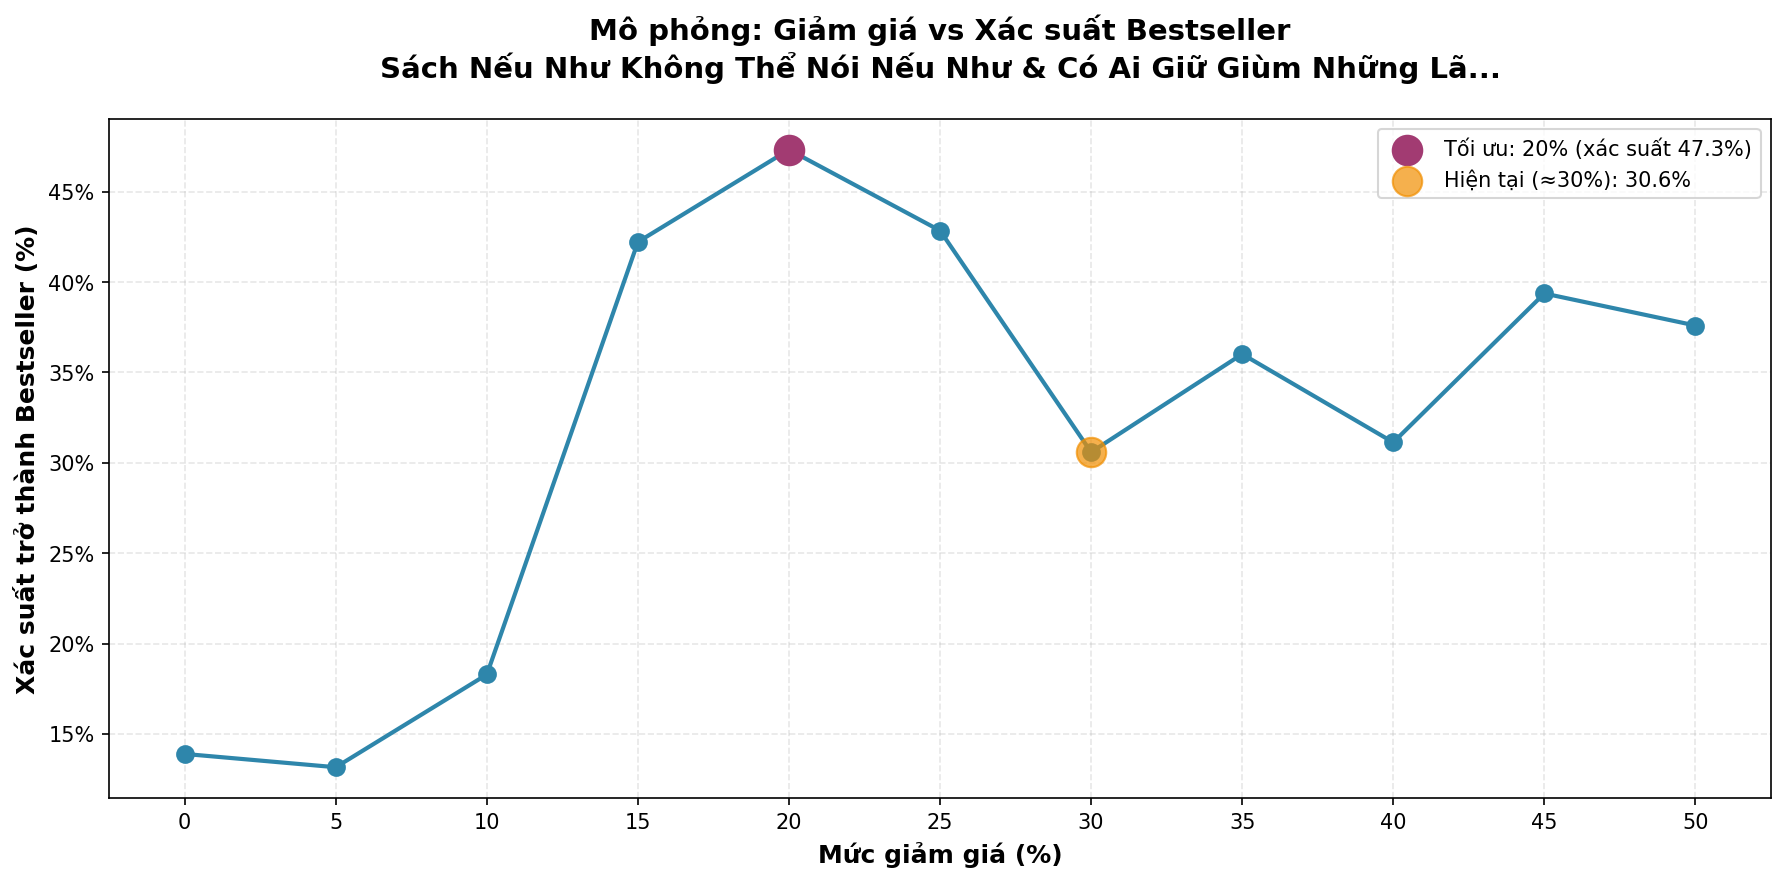
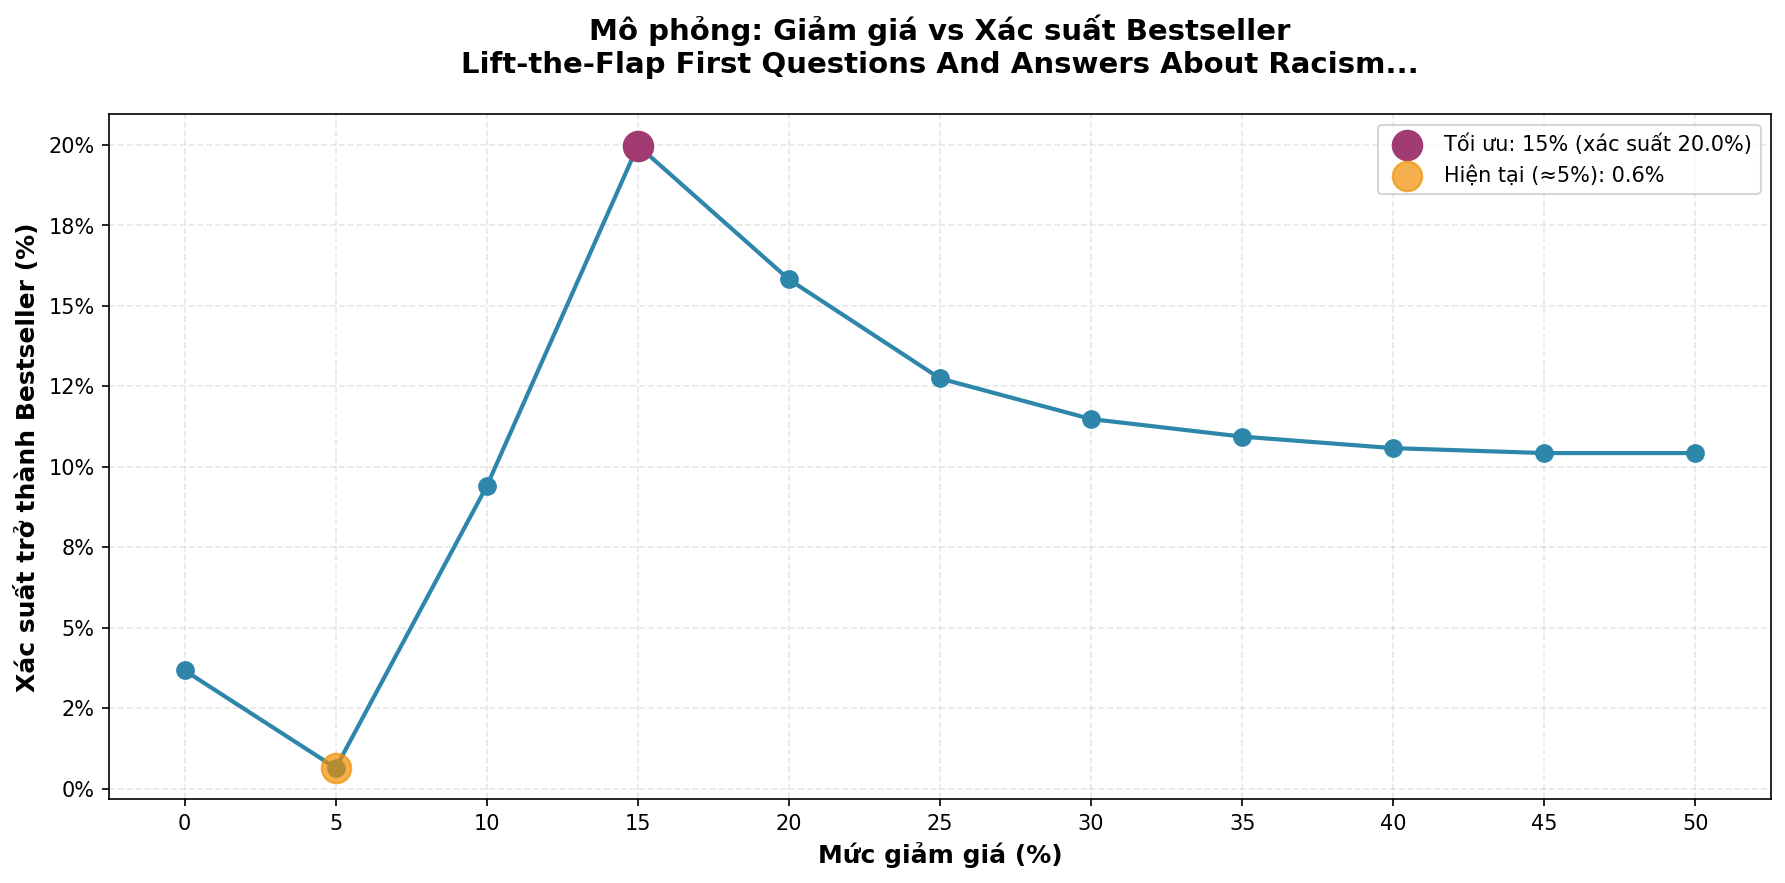
Update Code

diff --git a/scripts/ml/01_train_random_forest.py b/scripts/ml/01_train_random_forest.py
@@ -1,6 +1,6 @@
 """
-Train model Random Forest de du doan bestseller.
-Luu model va scaler vao thu muc models/ de dung cho cac script khac.
+Train model Random Forest để dự đoán sách bestseller.
+Sau khi train xong sẽ lưu model + scaler vào folder models/ để dùng lại sau.
 """
 
 import pandas as pd
@@ -21,51 +21,48 @@ def train_bestseller_model(data_path='data/clean/tiki_books_cleaned.csv',
                           model_path='models/bestseller_model.pkl',
                           scaler_path='models/scaler.pkl'):
     """
-    Train model Random Forest de du doan mot cuon sach co phai bestseller hay khong.
+    Train model Random Forest để dự đoán sách có phải bestseller không.
     
-    Tham so:
-        data_path: duong dan den file du lieu da lam sach
-        model_path: noi luu model sau khi train
-        scaler_path: noi luu scaler (de chuan hoa du lieu)
+    Input:
+        data_path: đường dẫn file CSV đã clean
+        model_path: lưu model vào đâu
+        scaler_path: lưu scaler vào đâu
     
-    Tra ve:
-        dict chua model, scaler, accuracy va danh sach features
+    Output:
+        dict chứa model, scaler, accuracy, list features
     """
     
     print("=" * 70)
     print("TRAIN MODEL DU DOAN BESTSELLER")
     print("=" * 70)
     
-    # Buoc 1: Load du lieu tu file CSV
+    # Load dữ liệu từ CSV
     print("\n[1/8] Dang load du lieu...")
     df = pd.read_csv(data_path, encoding='utf-8')
     print("Da load {} sach".format(len(df)))
     
-    # Kiem tra ty le bestseller trong dataset
     bestseller_rate = df['is_bestseller'].mean()
     print("Ty le bestseller: {:.1%}".format(bestseller_rate))
     
-    # Buoc 2: Tao one-hot encoding cho category
-    # Vi du: "Sach tieng Viet" -> cat_Sach_tieng_Viet = 1, cac cot khac = 0
+    # Chuyển category thành số (one-hot encoding)
+    # VD: "Sách tiếng Việt" thành cột cat_Sach_tieng_Viet = 1, còn lại = 0
     print("\n[2/8] Dang tao features tu category...")
     category_dummies = pd.get_dummies(df['category_name'], prefix='cat')
     df = pd.concat([df, category_dummies], axis=1)
     print("Da tao {} cot category".format(len(category_dummies.columns)))
     
-    # Buoc 3: Chon cac features de train model
-    # Su dung 4 features chinh + cac cot category vua tao
+    # Chọn features để train: 4 cột chính + các cột category vừa tạo
     feature_cols = ['price', 'discount_rate', 'rating_average', 'has_rating']
     cat_cols = [col for col in df.columns if col.startswith('cat_')]
     feature_cols.extend(cat_cols)
     print("Tong so features: {}".format(len(feature_cols)))
     
-    # Tach X (features) va y (label can du doan)
+    # Tách features (X) và label cần dự đoán (y)
     X = df[feature_cols]
     y = df['is_bestseller']
     
-    # Buoc 4: Chia train/test set
-    # 80% de train, 20% de test
-    # stratify=y de dam bao ty le bestseller trong train va test giong nhau
+    # Chia train/test 80/20
+    # Dùng stratify để giữ tỉ lệ bestseller trong train và test giống nhau
     print("\n[3/8] Chia train/test set (80/20)...")
     X_train, X_test, y_train, y_test = train_test_split(
         X, y, test_size=0.2, random_state=42, stratify=y
@@ -73,19 +70,15 @@ def train_bestseller_model(data_path='data/clean/tiki_books_cleaned.csv',
     print("Train size: {}".format(len(X_train)))
     print("Test size: {}".format(len(X_test)))
     
-    # Buoc 5: Chuan hoa du lieu (scaling)
-    # Vi cac feature co don vi khac nhau (price: tram nghin, rating: 0-5)
-    # Nen can scale ve cung muc do de model hoc tot hon
+    # Scale dữ liệu về cùng 1 thang đo
+    # Vì price (hàng trăm nghìn) và rating (0-5) chênh lệch quá nhiều
     print("\n[4/8] Dang scale features...")
     scaler = StandardScaler()
-    X_train_scaled = scaler.fit_transform(X_train)  # fit tren train set
-    X_test_scaled = scaler.transform(X_test)  # chi transform test set, khong fit lai
+    X_train_scaled = scaler.fit_transform(X_train)  # học cách scale từ train
+    X_test_scaled = scaler.transform(X_test)  # áp dụng cách scale đó cho test
     print("Da scale xong")
     
-    # Buoc 6: Train model Random Forest
-    # n_estimators: so cay decision tree
-    # max_depth: do sau toi da cua moi cay (tranh overfit)
-    # min_samples_split: so sample toi thieu de chia node
+    # Train model với các tham số đã chọn
     print("\n[5/8] Dang train Random Forest...")
     model = RandomForestClassifier(
         n_estimators=100,
@@ -96,7 +89,7 @@ def train_bestseller_model(data_path='data/clean/tiki_books_cleaned.csv',
     model.fit(X_train_scaled, y_train)
     print("Training hoan thanh")
     
-    # Buoc 7: Danh gia model
+    # Đánh giá xem model dự đoán tốt không
     print("\n[6/8] Danh gia model...")
     train_acc = model.score(X_train_scaled, y_train)
     test_acc = model.score(X_test_scaled, y_test)
@@ -105,36 +98,34 @@ def train_bestseller_model(data_path='data/clean/tiki_books_cleaned.csv',
     print("Test Accuracy: {:.1%}".format(test_acc))
     print("Gap (Train-Test): {:.1%}".format(train_acc - test_acc))
     
-    # In ra bao cao chi tiet
+    # In báo cáo chi tiết
     y_pred = model.predict(X_test_scaled)
     print("\nClassification Report:")
     print(classification_report(y_test, y_pred, 
                               target_names=['Non-Bestseller', 'Bestseller'],
                               digits=3))
     
-    # Buoc 8: Xem feature nao quan trong nhat
+    # Xem feature nào ảnh hưởng nhiều nhất đến kết quả
     print("\n[7/8] Feature Importance (Top 5):")
     
-    # Tao DataFrame de sap xep theo importance
     importance_df = pd.DataFrame({
         'feature': feature_cols,
         'importance': model.feature_importances_
     })
     importance_df = importance_df.sort_values('importance', ascending=False)
     
-    # In ra 5 features quan trong nhat
+    # In 5 features quan trọng nhất
     for idx, row in importance_df.head(5).iterrows():
         print("{:<25} {:.3f}".format(row['feature'], row['importance']))
     
-    # Buoc 9: Luu model va scaler
+    # Lưu model và scaler để dùng lại sau
     print("\n[8/8] Dang luu model va scaler...")
     
-    # Luu model
     with open(model_path, 'wb') as f:
         pickle.dump(model, f)
     print("Da luu model: {}".format(model_path))
     
-    # Luu scaler (can thiet khi du doan sau nay)
+    # Lưu scaler (phải có khi dự đoán sau này)
     with open(scaler_path, 'wb') as f:
         pickle.dump(scaler, f)
     print("Da luu scaler: {}".format(scaler_path))
@@ -143,7 +134,6 @@ def train_bestseller_model(data_path='data/clean/tiki_books_cleaned.csv',
     print("TRAINING HOAN THANH")
     print("=" * 70)
     
-    # Tra ve ket qua
     return {
         'model': model,
         'scaler': scaler,
@@ -154,7 +144,7 @@ def train_bestseller_model(data_path='data/clean/tiki_books_cleaned.csv',
 
 
 if __name__ == "__main__":
-    # Chay ham train khi execute file nay truc tiep
+    # Chạy train khi chạy file này trực tiếp
     result = train_bestseller_model()
     
     print("\nModel da duoc train va luu thanh cong.")

diff --git a/scripts/ml/05_optimize_discount_single.py b/scripts/ml/05_optimize_discount_single.py
@@ -1,32 +1,6 @@
-"""
-CẢNH BÁO VỀ PHƯƠNG PHÁP LUẬN - HẠN CHẾ QUAN TRỌNG:
-
-Script này mô phỏng tác động của discount_rate lên xác suất bestseller bằng cách:
-1. Giữ nguyên tất cả features khác (price, rating, category, etc.)
-2. Quét discount_rate từ 0% đến 75%
-3. Dùng model.predict_proba() để tính xác suất bestseller
-
-⚠ ĐÂY LÀ SUY LUẬN TƯƠNG QUAN (CORRELATIONAL), KHÔNG PHẢI NHÂN QUẢ (CAUSAL):
-
-- Model được train trên dữ liệu quan sát (observational data), không phải dữ liệu thực nghiệm
-- Khi ta thay đổi discount_rate trong mô phỏng, model chỉ cho biết "sách có discount X% 
-  thường có xác suất bestseller là Y%" dựa trên pattern đã học
-- KHÔNG đảm bảo rằng "nếu ta tăng discount lên X% thì sách SẼ trở thành bestseller"
-- Có thể tồn tại confounding factors: VD sách bestseller vốn được giảm giá nhiều hơn 
-  (reverse causation), hoặc có yếu tố ẩn khác (brand, marketing campaign) chưa có trong data
-
-HẠN CHẾ:
-- Kết quả CHỈ mang tính tham khảo, không nên dùng trực tiếp cho quyết định kinh doanh
-- Cần kiểm chứng bằng A/B test thực tế hoặc phương pháp causal inference 
-  (propensity score matching, uplift modeling, instrumental variables)
-- Model giả định "ceteris paribus" (các yếu tố khác không đổi) - không thực tế trong thực tiễn
-
-KHUYẾN NGHỊ:
-- Dùng kết quả để khám phá pattern và đưa ra giả thuyết
-- Kiểm chứng bằng thực nghiệm trước khi triển khai thực tế
-- Kết hợp với domain knowledge và business context
-"""
-
+# Mô phỏng % giảm giá tối ưu cho 1 sản phẩm
+# LƯU Ý: Đây là mô phỏng dựa trên model dự đoán (correlational), không phải phân tích nhân quả (causal).
+    
 import pandas as pd
 import numpy as np
 import matplotlib.pyplot as plt
@@ -38,11 +12,6 @@ sys.stdout = io.TextIOWrapper(sys.stdout.buffer, encoding='utf-8')
 
 def simulate_optimal_discount(product_id, df, model, scaler, feature_cols):
     """
-    Mô phỏng % giảm giá tối ưu cho 1 sản phẩm
-    
-    LƯU Ý: Đây là mô phỏng dựa trên model dự đoán (correlational), không phải 
-    phân tích nhân quả (causal). Xem docstring ở đầu file để hiểu hạn chế.
-    
     Parameters:
     -----------
     product_id : int
@@ -119,7 +88,9 @@ def simulate_optimal_discount(product_id, df, model, scaler, feature_cols):
     results_df = pd.DataFrame(results)
     
     # Tìm mức discount tối ưu (xác suất cao nhất)
+    # Lấy vị trí trong cột 'bestseller_probability' có giá trị lớn nhất
     optimal_idx = results_df['bestseller_probability'].idxmax()
+    # 
     optimal_discount = results_df.loc[optimal_idx, 'discount_rate']
     optimal_prob = results_df.loc[optimal_idx, 'bestseller_probability']
     
@@ -311,11 +282,57 @@ def run_discount_optimization_demo(df, model, scaler, feature_cols, sample_ids=N
 # ============================================================================
 
 if __name__ == "__main__":
-    print("\n⚠  Để chạy demo, import các biến từ file train_model.py:")
-    print("   - df (cleaned data)")
-    print("   - model (trained Random Forest)")
-    print("   - scaler (fitted StandardScaler)")
-    print("   - feature_cols (list of feature names)")
-    print("\nVí dụ:")
-    print("   from discount_optimization import run_discount_optimization_demo")
-    print("   results = run_discount_optimization_demo(df, model, scaler, feature_cols)")
+    import pickle
+    
+    print("\n" + "="*70)
+    print("🔧 ĐANG LOAD DỮ LIỆU VÀ MODEL...")
+    print("="*70)
+    
+    try:
+        # Load cleaned data
+        print("\n📥 Đang load dữ liệu: data/clean/tiki_books_cleaned.csv...")
+        df = pd.read_csv('data/clean/tiki_books_cleaned.csv', encoding='utf-8')
+        print(f"   ✅ Đã load {len(df):,} sách")
+        
+        # Load model
+        print("\n📥 Đang load model: models/bestseller_model.pkl...")
+        model = pickle.load(open('models/bestseller_model.pkl', 'rb'))
+        print("   ✅ Đã load Random Forest model")
+        
+        # Load scaler
+        print("\n📥 Đang load scaler: models/scaler.pkl...")
+        scaler = pickle.load(open('models/scaler.pkl', 'rb'))
+        print("   ✅ Đã load StandardScaler")
+        
+        # Prepare features
+        print("\n🔧 Đang chuẩn bị features...")
+        category_dummies = pd.get_dummies(df['category_name'], prefix='cat')
+        df = pd.concat([df, category_dummies], axis=1)
+        
+        feature_cols = ['price', 'discount_rate', 'rating_average', 'has_rating']
+        cat_cols = [col for col in df.columns if col.startswith('cat_')]
+        feature_cols.extend(cat_cols)
+        print(f"   ✅ Chuẩn bị xong {len(feature_cols)} features")
+        
+        print("\n" + "="*70)
+        print("✅ TẤT CẢ DỮ LIỆU ĐÃ SẴN SÀNG!")
+        print("="*70)
+        
+        # Run discount optimization demo
+        results = run_discount_optimization_demo(df, model, scaler, feature_cols)
+        
+    except FileNotFoundError as e:
+        print(f"\n❌ LỖI: Không tìm thấy file: {e}")
+        print("\n💡 Kiểm tra các file sau có tồn tại không:")
+        print("   - data/clean/tiki_books_cleaned.csv")
+        print("   - models/bestseller_model.pkl")
+        print("   - models/scaler.pkl")
+        print("\nNếu chưa có, vui lòng chạy:")
+        print("   1. python scripts/ml/01_train_random_forest.py")
+        
+    except Exception as e:
+        print(f"\n❌ LỖI: {e}")
+        print("\n💡 Kiểm tra:")
+        print("   - Tất cả dependencies đã cài đặt?")
+        print("   - Đã chạy training scripts?")
+        print("   - Data có hợp lệ không?")

diff --git a/scripts/ml/03_model_comparison.py b/scripts/ml/03_model_comparison.py
@@ -22,7 +22,7 @@ print("📊 SO SÁNH MÔ HÌNH: LOGISTIC REGRESSION vs RANDOM FOREST")
 print("="*80)
 
 # ============================================================================
-# 1. LOAD VÀ CHUẨN BỊ DỮ LIỆU (GIỐNG NHAU CHO CẢ 2 MODEL)
+# 1. LOAD VÀ CHUẨN BỊ DỮ LIỆU 
 # ============================================================================
 
 print("\n🔧 Đang tải và chuẩn bị dữ liệu...")
@@ -133,7 +133,7 @@ print(f"   - Train-Test Gap: {rf_gap:.3f}")
 # ============================================================================
 
 print("\n" + "="*80)
-print("📊 BẢNG SO SÁNH CUỐI CÙNG")
+print("📊 BẢNG SO SÁNH Logistic Regression và Random Forest đã Train")
 print("="*80 + "\n")
 
 comparison_df = pd.DataFrame({
@@ -267,6 +267,4 @@ print("✅ Đã lưu báo cáo: outputs/reports/model_comparison.md")
 print("\n" + "="*80)
 print("✅ HOÀN THÀNH!")
 print("="*80)
-print(f"\n📁 Files đã tạo:")
-print(f"   1. outputs/charts/model_comparison.png - Biểu đồ so sánh")
-print(f"   2. outputs/reports/model_comparison.md - Báo cáo chi tiết")
+

diff --git a/scripts/ml/02_train_logistic_regression.py b/scripts/ml/02_train_logistic_regression.py
@@ -1,6 +1,6 @@
 """
-Train model Logistic Regression de du doan bestseller.
-Dung cung config voi Random Forest de co the so sanh cong bang.
+Train model Logistic Regression để dự đoán bestseller.
+Dùng cùng config với Random Forest để so sánh công bằng.
 """
 
 import pandas as pd
@@ -23,8 +23,7 @@ def train_logistic_model(data_path='data/clean/tiki_books_cleaned.csv',
                          model_path='models/logistic_model.pkl',
                          scaler_path='models/logistic_scaler.pkl'):
     """
-    Train model Logistic Regression de du doan mot cuon sach co phai bestseller khong.
-    
+    Train model Logistic Regression de du doan mot cuon sach co phai bestseller khong. 
     Tham so:
         data_path: duong dan den file du lieu da lam sach
         model_path: noi luu model sau khi train

diff --git a/README.md b/README.md
@@ -38,9 +38,9 @@ Dự án này phân tích **3,830 sách** từ Tiki.vn với các mục tiêu:
 - ✅ GridSearch hyperparameter tuning
 
 ### 2. Content-Based Recommendation
-- ✅ Euclidean distance-based similarity
-- ✅ Top 5 recommendations per book
-- ✅ Category-filtered recommendations
+- ✅ Euclidean distance similarity on price and rating
+- ✅ Top 5 recommendations per book within same category
+- ✅ Category-filtered to ensure relevant suggestions
 
 ### 3. SHAP Explainability
 - ✅ Feature importance analysis
@@ -111,8 +111,8 @@ DoAnNganh/
 ### Bước 1: Clone Repository
 
 ```bash
-git clone https://github.com/datammnh156/Do-An-Nganh-HTTTQL.git
-cd Do-An-Nganh-HTTTQL
+git clone https://github.com/datammnh156/Tiki-Bookstore-Analysis.git
+cd Tiki-Bookstore-Analysis
 ```
 
 ### Bước 2: Cài Đặt Dependencies

diff --git a/outputs/reports/model_comparison.md b/outputs/reports/model_comparison.md
@@ -31,4 +31,4 @@ Random Forest có gap thấp hơn, chứng tỏ generalization tốt hơn.
 
 ---
 
-*Báo cáo được tạo tự động vào 2026-08-11 19:49:46*
+*Báo cáo được tạo tự động vào 2026-08-15 15:43:01*
